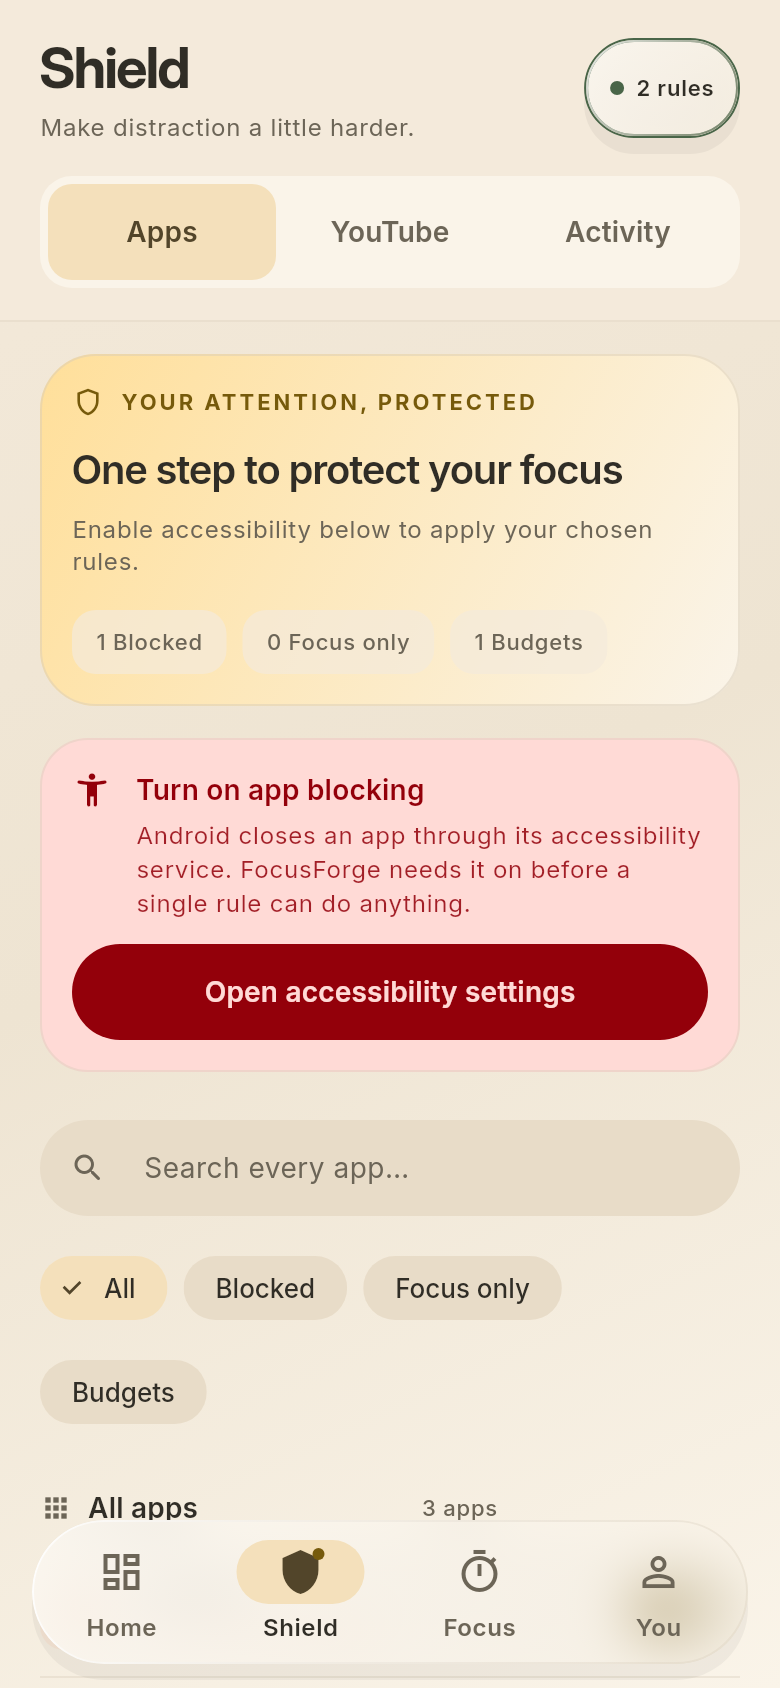
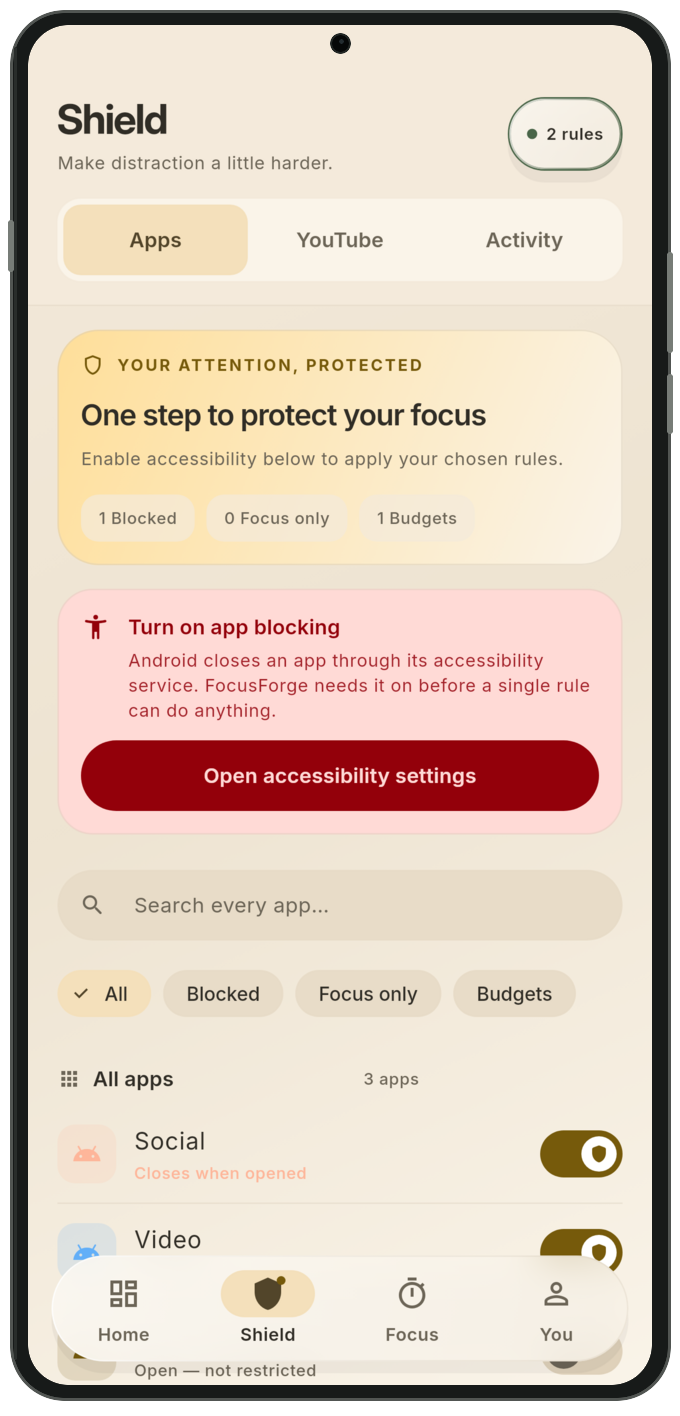
docs(readme): refresh premium phone screenshot gallery

diff --git a/docs/screenshots/README.md b/docs/screenshots/README.md
@@ -1,0 +1,42 @@
+# Screenshot gallery
+
+These four 680 × 1416 PNGs show actual Flutter renders of the premium
+1.0.3+2016 application, composed into illustrative OnePlus 15-inspired frames.
+They are not physical-device screenshots or official manufacturer renders.
+Personal progress and the Demo Student profile are fictional local sample data;
+no cloud memberships or leaderboard standings were fabricated.
+
+The capture source tree is `3f74e04d1424a561880812aa79c0ffb7b59633ff`,
+shared by the original build-2016 commit and the attribution-only rewritten
+commit `1e2f41619b648d99eff8814af238867e54c3d9f3`. Capture-only uncommitted
+changes were excluded. Screens were captured at 1272 × 2772 and resized
+proportionally for the phone interiors.
+
+The separate Play Store artwork layout and headline treatment reference the supplied
+[banner](https://github.com/MufasaXz/che110-ca1/blob/main/IMG_20261011_162251_888.jpg).
+Marketing text uses Barlow Condensed Bold and Barlow Regular, licensed under
+[SIL Open Font License 1.1](https://github.com/jpt/barlow/blob/main/OFL.txt).
+The app's own typography is unchanged.
+
+Phone proportions reference [OnePlus 15 specifications](https://www.oneplus.com/us/15/specs).
+Corner radii, camera size and side keys are illustrative, not manufacturing drawings.
+
+PNG decoding, OCR, image geometry and ZIP integrity were checked. The image
+bridge did not permit direct visual inspection; no subjective visual approval
+or real-device verification is claimed.
+
+The four GitHub gallery files are RGBA PNGs with transparent backgrounds,
+not rectangular crops of the Play Store artwork. The original vector phone
+body and three side keys are recomposed directly onto transparency; the
+paper canvas and paper-colored offset shadow are omitted. No white-color
+removal is used, so light app content stays fully opaque.
+
+Original 1080 × 1920 composition geometry: outer body rounded rectangle
+`(210,460)–(870,1850)`, radius 54; right keys `(867,702)–(872,802)` and
+`(867,824)–(872,883)`, radius 2; left key `(208,670)–(213,721)`, radius 2.
+The final 680 × 1416 canvas starts at original coordinate `(200,450)`.
+Only the silhouette's anti-aliased edge has partial alpha. Exterior pixels
+are transparent, solid frame/screen pixels are opaque, and central screen
+pixels were verified byte-for-byte against the source interiors.
+All four output alpha channels match the independently rendered vector
+silhouette exactly. Gallery changes do not alter the separate Play Store artwork.

diff --git a/README.md b/README.md
@@ -19,13 +19,14 @@ A study companion that protects your attention and makes your progress visible.
 <br>
 
 <p>
-  <img src="docs/screenshots/01-dashboard.png" width="186" alt="Home — day theme with daily goal, focus totals and weekly progress">
-  <img src="docs/screenshots/02-shield.png" width="186" alt="Shield — day theme with app filters and distraction rules">
-  <img src="docs/screenshots/03-focus.png" width="186" alt="Focus — day theme with tan retro countdown dial and current study subject">
-  <img src="docs/screenshots/04-you.png" width="186" alt="You — dark theme with profile progress and weekly study recap">
+  <img src="docs/screenshots/01-dashboard.png" width="186" alt="Home in a stylized phone frame — light theme with sample daily focus totals and weekly progress">
+  <img src="docs/screenshots/02-shield.png" width="186" alt="Shield in a stylized phone frame — light theme with a demonstration app catalog and distraction rules">
+  <img src="docs/screenshots/03-focus.png" width="186" alt="Focus in a stylized phone frame — light theme with the countdown dial and a sample study session">
+  <img src="docs/screenshots/04-you.png" width="186" alt="You in a stylized phone frame — light theme with Demo Student's profile and sample study progress">
 </p>
 
-<sub>Home · Day &nbsp; / &nbsp; Shield · Day &nbsp; / &nbsp; Focus · Day &nbsp; / &nbsp; You · Dark</sub>
+<sub>Home / Shield / Focus / You · Light theme</sub><br>
+<sub>Actual app widget-test renders with fictional local demo data, composed in stylized phone frames; not physical-device screenshots. [Screenshot provenance](docs/screenshots/README.md).</sub>
 
 </div>
 

diff --git a/CHANGELOG.md b/CHANGELOG.md
@@ -1,8 +1,17 @@
 # Changelog
 
-## 1.0.3 — 2026-10-10
+## 1.0.3 — 2026-10-11
 
-Android build 2015.
+Android build 2016.
+
+- Refreshed weekly leaderboard standings, study groups, profile identity and
+  insights, settings, parent controls and child progress with responsive glass
+  cards and clearer hierarchy.
+- Stabilized floating navigation pill transparency during tab transitions and
+  added layout regression coverage. Physical-device flash elimination has not
+  been verified.
+- Updated the GitHub gallery with four phone-only light-theme app renders.
+  All sample study and profile data is fictional.
 
 - Setup flow polish: frosted pinned footer, per-stage progress stepper,
   product promise on the splash, and a tonal celebration hero. Guardian and
@@ -42,7 +51,9 @@ Android build 2015.
 - Recovered sessions stop reading providers if the container is disposed while
   a save is in progress.
 
-### Release details
+### Earlier build-2015 validation (historical)
+
+The following checks describe the previous build, not final build 2016.
 
 - Version 1.0.3 (2015), signed with the existing Android release certificate.
   The build number exceeds the earlier architecture-specific version codes.
